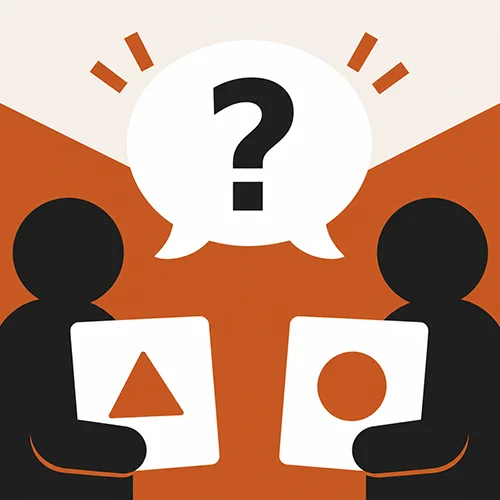
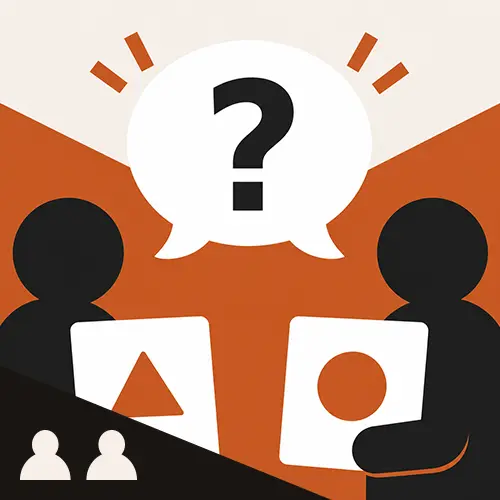
Anadir WhatsApp en el modal de contacto y actualizar iconos de juegos

Changed region(s): [[0.03, 0.78, 0.66, 1.0]]

diff --git a/templates/home.html b/templates/home.html
@@ -445,6 +445,24 @@
   }
   .contact-submit:hover { opacity: 0.88; }
   .contact-submit:disabled { opacity: 0.5; cursor: not-allowed; }
+  .contact-or {
+    display: flex; align-items: center; gap: 12px;
+    margin: 18px 0 14px; color: #A89B91; font-size: 13px;
+  }
+  .contact-or::before, .contact-or::after {
+    content: ""; flex: 1; height: 1px; background: #EBE3DB;
+  }
+  .contact-whatsapp {
+    display: flex; align-items: center; justify-content: center; gap: 9px;
+    width: 100%; padding: 13px;
+    background: #fff; color: #1A1A1A;
+    border: 1.5px solid #25D366; border-radius: 10px;
+    font-size: 15px; font-weight: 600; cursor: pointer;
+    font-family: inherit; text-decoration: none;
+    transition: background 0.15s;
+  }
+  .contact-whatsapp:hover { background: #F0FBF3; }
+  .contact-whatsapp svg { width: 20px; height: 20px; flex-shrink: 0; }
   .contact-success {
     text-align: center; padding: 20px 0;
     font-size: 16px; color: #1A1A1A; line-height: 1.6;
@@ -727,6 +745,11 @@ loadMap();
       <div class="contact-field"><label>Email de contacto *</label><input type="email" id="cf-email" placeholder="tu@email.com"></div>
       <div class="contact-field"><label>Mensaje</label><textarea id="cf-mensaje" placeholder="Cuéntanos lo que quieras..."></textarea></div>
       <button class="contact-submit" id="btn-contact-submit" onclick="submitContact()">Enviar solicitud</button>
+      <div class="contact-or">o</div>
+      <a class="contact-whatsapp" href="https://wa.me/34623795080?text=Hola%2C%20me%20interesa%20Nookplay%20para%20mi%20local.%20%C2%BFMe%20pod%C3%A9is%20dar%20m%C3%A1s%20informaci%C3%B3n%3F" target="_blank" rel="noopener">
+        <svg viewBox="0 0 24 24" fill="#25D366" xmlns="http://www.w3.org/2000/svg"><path d="M17.472 14.382c-.297-.149-1.758-.867-2.03-.967-.273-.099-.471-.148-.67.15-.197.297-.767.966-.94 1.164-.173.199-.347.223-.644.075-.297-.149-1.255-.463-2.39-1.475-.883-.788-1.48-1.761-1.653-2.059-.173-.297-.018-.458.13-.606.134-.133.298-.347.446-.52.149-.174.198-.298.298-.497.099-.198.05-.371-.025-.52-.075-.148-.669-1.612-.916-2.207-.242-.579-.487-.5-.669-.51-.173-.008-.371-.01-.57-.01-.198 0-.52.074-.792.372-.272.297-1.04 1.016-1.04 2.479 0 1.462 1.065 2.875 1.213 3.074.149.198 2.096 3.2 5.077 4.487.71.306 1.263.489 1.694.625.712.227 1.36.195 1.872.118.571-.085 1.758-.719 2.006-1.413.248-.694.248-1.289.173-1.413-.074-.124-.272-.198-.57-.347m-5.421 7.403h-.004a9.87 9.87 0 01-5.031-1.378l-.361-.214-3.741.982.999-3.648-.235-.374a9.86 9.86 0 01-1.51-5.26c.001-5.45 4.436-9.884 9.888-9.884 2.64 0 5.122 1.03 6.988 2.898a9.825 9.825 0 012.893 6.994c-.003 5.45-4.437 9.884-9.885 9.884m8.413-18.297A11.815 11.815 0 0012.05 0C5.495 0 .16 5.335.157 11.892c0 2.096.547 4.142 1.588 5.945L.057 24l6.305-1.654a11.882 11.882 0 005.683 1.448h.005c6.554 0 11.89-5.335 11.893-11.893a11.821 11.821 0 00-3.48-8.413z"/></svg>
+        Escríbenos por WhatsApp
+      </a>
     </div>
     <div id="contact-success" style="display:none;text-align:center;padding:20px 0;">
       <span style="font-size:48px;display:block;margin-bottom:12px;">☕</span>
